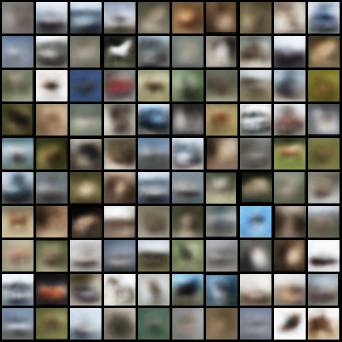
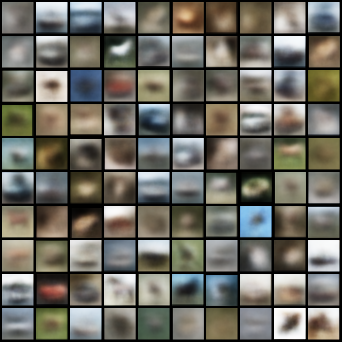
bring back discriminator

diff --git a/capsule_network_cifar10_gan.py b/capsule_network_cifar10_gan.py
@@ -16,6 +16,8 @@ import os
 
 DATA_DIR = 'data_cifar10'
 CP_DIR = 'checkpoints_cifar10_gan'
+USE_D = True
+LR = 1e-3
 
 if not os.path.isdir(CP_DIR):
     os.mkdir(CP_DIR)
@@ -272,22 +274,33 @@ if __name__ == "__main__":
     print("# parameters:", sum(param.numel() for param in model.parameters()))
 
     caps_optimizer = Adam(model.parameters())
-    d_optimizer = Adam(discriminator.parameters())
+    d_optimizer = Adam(discriminator.parameters(), lr=1e-6)
+    # How should we train discriminator differently?
+    # 1. Use SGD for discriminator
+    # 2. Learning rate
+    # 3. Alternate: train discriminator every N epochs
 
     engine = Engine()
     meter_loss = tnt.meter.AverageValueMeter()
     meter_accuracy = tnt.meter.ClassErrorMeter(accuracy=True)
     confusion_meter = tnt.meter.ConfusionMeter(NUM_CLASSES, normalized=True)
 
-    train_loss_logger = VisdomPlotLogger('line', opts={'title': 'Train Loss'})
-    train_error_logger = VisdomPlotLogger('line', opts={'title': 'Train Accuracy'})
-    test_loss_logger = VisdomPlotLogger('line', opts={'title': 'Test Loss'})
-    test_accuracy_logger = VisdomPlotLogger('line', opts={'title': 'Test Accuracy'})
-    confusion_logger = VisdomLogger('heatmap', opts={'title': 'Confusion matrix',
+    meter_d_loss = tnt.meter.AverageValueMeter()
+    meter_d_accuracy = tnt.meter.ClassErrorMeter(accuracy=True)
+
+    suffix = '-GAN'
+    train_loss_logger = VisdomPlotLogger('line', opts={'title': 'Train Loss' + suffix})
+    train_error_logger = VisdomPlotLogger('line', opts={'title': 'Train Accuracy'+ suffix})
+    test_loss_logger = VisdomPlotLogger('line', opts={'title': 'Test Loss'+ suffix})
+    test_accuracy_logger = VisdomPlotLogger('line', opts={'title': 'Test Accuracy'+ suffix})
+    confusion_logger = VisdomLogger('heatmap', opts={'title': 'Confusion matrix'+ suffix,
                                                      'columnnames': list(range(NUM_CLASSES)),
                                                      'rownames': list(range(NUM_CLASSES))})
-    ground_truth_logger = VisdomLogger('image', opts={'title': 'Ground Truth'})
-    reconstruction_logger = VisdomLogger('image', opts={'title': 'Reconstruction'})
+    ground_truth_logger = VisdomLogger('image', opts={'title': 'Ground Truth'+ suffix})
+    reconstruction_logger = VisdomLogger('image', opts={'title': 'Reconstruction'+ suffix})
+
+    d_loss_logger = VisdomPlotLogger('line', opts={'title': "D Loss"+ suffix})
+    d_accuracy_logger = VisdomPlotLogger('line', opts={'title': "D Accuracy"+ suffix})
 
     capsule_loss = CapsuleLoss()
     d_loss = nn.BCELoss()
@@ -297,6 +310,9 @@ if __name__ == "__main__":
         dataset = CIFAR10(root=DATA_DIR, download=True, train=mode)
         data = getattr(dataset, 'train_data' if mode else 'test_data')
         labels = getattr(dataset, 'train_labels' if mode else 'test_labels')
+        # data = data[:1000]
+        # labels = labels[:1000]
+
         tensor_dataset = tnt.dataset.TensorDataset([data, labels])
 
         return tensor_dataset.parallel(batch_size=BATCH_SIZE, num_workers=4, shuffle=mode)
@@ -324,50 +340,64 @@ if __name__ == "__main__":
             classes, reconstructions = model(data)
 
         caps_loss = capsule_loss(data, labels, classes, reconstructions.view(reconstructions.shape[0], -1))
+        loss = caps_loss
 
-        ###############################
-        # Add discriminator loss
-        ###############################
-        real_label = 1
-        fake_label = 0
-        # train with real
-        batch_size = data.shape[0]
-        label = torch.full((batch_size,), real_label).cuda()
+        if USE_D and training:
+            ###############################
+            # Add discriminator loss
+            ###############################
+            real_label = 1
+            fake_label = 0
+            # train with real
+            batch_size = data.shape[0]
+            label = torch.full((batch_size,), real_label).cuda()
 
-        output = discriminator(data)
-        errD_real = d_loss(output, label)
+            output = discriminator(data)
+            errD_real = d_loss(output, label)
 
-        # D_x = output.mean().item()
+            output_np = output.data.cpu().numpy()
+            meter_d_accuracy.add( np.stack((1 - output_np, output_np), axis=1), label)
 
-        # train with fake
-        label = torch.full((batch_size,), fake_label).cuda()
-        # label.fill_(fake_label)
-        output = discriminator(reconstructions.detach())
-        errD_fake = d_loss(output, label)
-        # D_G_z1 = output.mean().item()
-        errD = 0.5 * (errD_real + errD_fake)
+            # D_x = output.mean().item()
 
-        # Update discriminator weights here
-        d_optimizer.zero_grad()
-        errD.backward()
-        d_optimizer.step()
+            # train with fake
+            label = torch.full((batch_size,), fake_label).cuda()
+            # label.fill_(fake_label)
+            output = discriminator(reconstructions.detach())
+            errD_fake = d_loss(output, label)
+            # D_G_z1 = output.mean().item()
+            errD = 0.5 * (errD_real + errD_fake)
 
-        ###############################
-        # Add generator loss
-        ###############################
-        # label.fill_(real_label)  # fake labels are real for generator cost
-        label = torch.full((batch_size,), real_label).cuda()
-        output = discriminator(reconstructions)
-        errG = d_loss(output, label)
+            # Update discriminator weights here
+            d_optimizer.zero_grad()
+            errD.backward()
+            d_optimizer.step()
+
+            output_np = output.data.cpu().numpy()
+            meter_d_accuracy.add( np.stack((1 - output_np, output_np), axis=1), label)
+
+            meter_d_loss.add(errD.data[0])
+
+            ###############################
+            # Add generator loss
+            ###############################
+            # label.fill_(real_label)  # fake labels are real for generator cost
+            label = torch.full((batch_size,), real_label).cuda()
+            output = discriminator(reconstructions)
+            errG = d_loss(output, label)
+            loss = loss + errG
 
         # D_G_z2 = output.mean().item()
 
-        return caps_loss + errG, classes
+        return loss, classes
 
     def reset_meters():
         meter_accuracy.reset()
         meter_loss.reset()
         confusion_meter.reset()
+        if USE_D:
+            meter_d_loss.reset()
+            meter_d_accuracy.reset()
 
 
     def on_sample(state):
@@ -391,6 +421,10 @@ if __name__ == "__main__":
 
         train_loss_logger.log(state['epoch'], meter_loss.value()[0])
         train_error_logger.log(state['epoch'], meter_accuracy.value()[0])
+
+        if USE_D:
+            d_loss_logger.log(state['epoch'], meter_d_loss.value()[0])
+            d_accuracy_logger.log(state['epoch'], meter_d_accuracy.value()[0])
 
         reset_meters()
 
